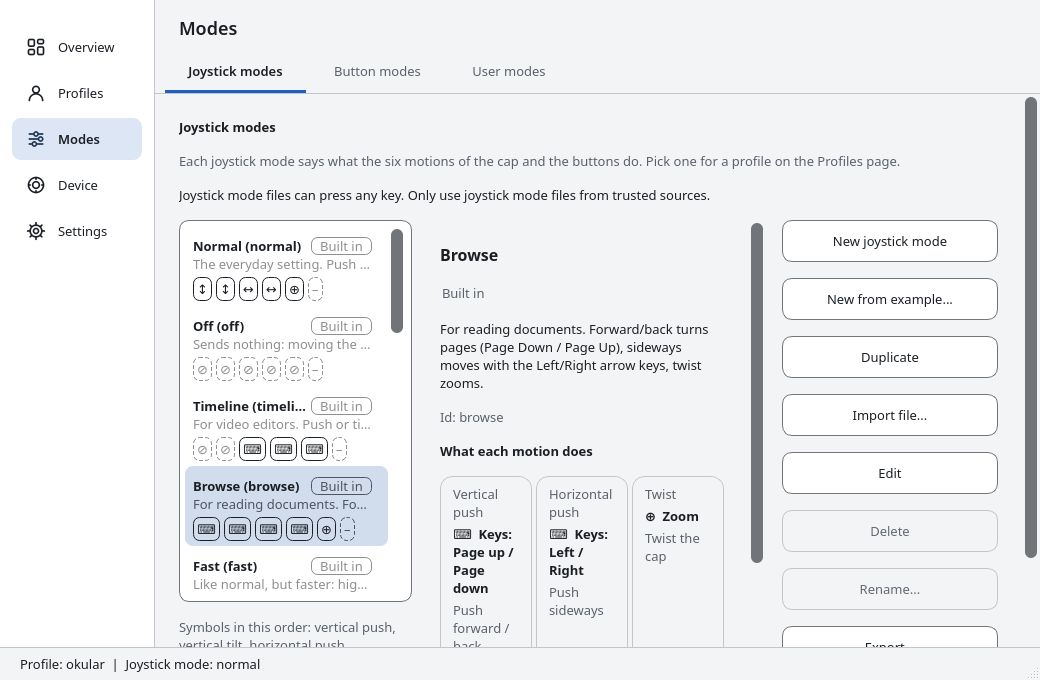
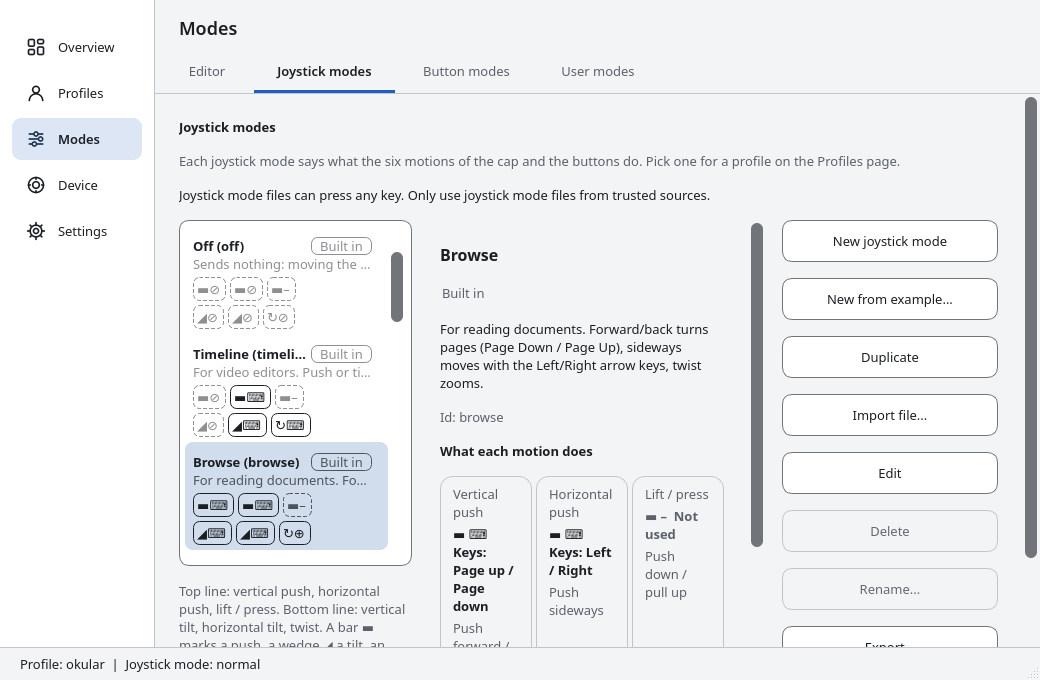
Installers: no daemon-only fallback, every Windows and macOS package has the interface and the daemon
- installers.yml: the Qt step no longer continues on error, the UI build is always on,
  the image and installer tests require the app / dofscroll-ui.exe.
- build-dmg.sh, build-installer.ps1, installer.nsi: refuse to build without the interface.
- ci.yml release job: publishes only when all six files exist and none is daemon-only.
- Joystick modes list: the six chips sit in two lines of three (pushes above, tilts and
  twist below), each with the marker of the kind of motion and the symbol of the action
  (the marker came first and hid the action symbol in the list).
- New website screenshots (Qt 6.9.3, offscreen), docs and German strings.

diff --git a/src/ui/qt/pages/modes_page.cpp b/src/ui/qt/pages/modes_page.cpp
@@ -56,6 +56,9 @@ QString originText(Origin o) {
 
 // Item roles of a row of the list (kRoleDescription and kRoleOrigin come from described_item_delegate.hpp).
 enum { kRoleChips = Qt::UserRole + 3, kRoleMuted = Qt::UserRole + 4 };
+// The list shows the six motions as two lines of three, like the panel in the detail view: the pushes (vertical,
+// horizontal, lift / press) above, the tilts and the twist below. The data order is the fixed order of the model.
+constexpr int kChipsPerRow = 3;
 
 // One row of the list: the name (bold) with the origin badge at the right end, one short description line (muted,
 // cut to the width) and the six motion chips below, wrapped to the width of the list. All lengths follow the font
@@ -70,7 +73,7 @@ public:
         initStyleOption(&opt, index);
         const QFontMetrics fm(opt.font);
         const int pad = spn::ui::tokens::kSpaceSm;
-        const motionview::ChipLayout chips = motionview::layoutChips(fm, chipsOf(index), textWidth(opt), compactPad(fm));
+        const motionview::ChipLayout chips = motionview::layoutChips(fm, chipsOf(index), textWidth(opt), compactPad(fm), kChipsPerRow);
         int h = fm.height() + 2 * pad;
         if (!index.data(kRoleDescription).toString().isEmpty()) h += fm.height();
         h += chips.height + (chips.height ? motionview::chipGap(fm) : 0);
@@ -124,8 +127,8 @@ public:
         }
         y += motionview::chipGap(fm);
         const QList<motionview::Chip> chips = chipsOf(index);
-        motionview::paintChips(painter, fm, chips, motionview::layoutChips(fm, chips, width, compactPad(fm)), QPoint(textRect.left(), y), nameColor,
-                               mutedColor, compactPad(fm));
+        motionview::paintChips(painter, fm, chips, motionview::layoutChips(fm, chips, width, compactPad(fm), kChipsPerRow), QPoint(textRect.left(), y),
+                               nameColor, mutedColor, compactPad(fm));
         painter->restore();
     }
 
@@ -137,12 +140,15 @@ private:
         QList<motionview::Chip> out;
         const QStringList texts = index.data(kRoleChips).toStringList();
         const QString mask = index.data(kRoleMuted).toString();
-        for (int i = 0; i < texts.size(); ++i) {
+        static const int order[6] = {0, 2, 4, 1, 3, 5};  // v_push h_push lift / v_tilt h_tilt twist
+        for (int k = 0; k < texts.size(); ++k) {
+            const int i = texts.size() == 6 ? order[k] : k;
             motionview::Chip c;
-            // the list shows the symbol only (the words are in the detail view and the tooltip, the position
-            // says which motion it is); a word would be cut off in a narrow row
-            const int space = texts[i].indexOf(QLatin1Char(' '));
-            c.text = space > 0 ? texts[i].left(space) : texts[i];
+            // the list shows the two symbols only, the marker of the kind of motion (push, tilt, twist) and the
+            // symbol of the action (the words are in the detail view and the tooltip, the position says which
+            // motion it is); a word would be cut off in a narrow row
+            const QStringList parts = texts[i].split(QLatin1Char(' '));
+            c.text = parts.size() >= 2 ? parts[0] + parts[1] : texts[i];
             c.muted = i < mask.size() && mask[i] == QLatin1Char('1');
             out.append(c);
         }
@@ -192,10 +198,10 @@ ModesPage::ModesPage(const UiContext &ctx, QWidget *parent)
     list_->setResizeMode(QListView::Adjust);
     list_->setHorizontalScrollBarPolicy(Qt::ScrollBarAlwaysOff);
     // no minimum width: it grows with the font (the page would not fit the default window with the wider Windows
-    // fonts); the splitter starts the list wide enough for the six symbol chips in one row, a narrower list wraps them
+    // fonts); the six symbol chips sit in two lines of three (pushes above, tilts and twist below)
     leftLayout->addWidget(list_, 1);
-    auto *legend = new QLabel(T("Symbols in this order: vertical push, vertical tilt, horizontal push, horizontal tilt, twist, "
-                                "lift / press. \u2195 scroll, \u2194 scroll sideways, \u2295 zoom, \u2328 keys, \u21E5 one tap per "
+    auto *legend = new QLabel(T("Top line: vertical push, horizontal push, lift / press. Bottom line: vertical tilt, horizontal tilt, "
+                                "twist. A bar \u25AC marks a push, a wedge \u25E2 a tilt, an arrow \u21BB the twist. \u2195 scroll, \u2194 scroll sideways, \u2295 zoom, \u2328 keys, \u21E5 one tap per "
                                 "push, \u2298 off, \u2013 not used (dashed)."), left);
     legend->setWordWrap(true);
     legend->setTextFormat(Qt::PlainText);

diff --git a/src/ui/qt/motion_view.hpp b/src/ui/qt/motion_view.hpp
@@ -53,19 +53,23 @@ inline int chipPadX(const QFontMetrics &fm) { return fm.height() / 2; }
 inline int chipHeight(const QFontMetrics &fm) { return fm.height() + 2 * std::max(2, fm.height() / 6); }
 
 // Flows the chips left to right and wraps to the next row at `width`; a chip never gets wider than `width`.
-// padX < 0: the normal inset; a smaller one (a symbol-only chip in a list row) keeps six chips in one row.
-inline ChipLayout layoutChips(const QFontMetrics &fm, const QList<Chip> &chips, int width, int padX = -1) {
+// padX < 0: the normal inset; a smaller one (a symbol-only chip in a list row) keeps the chips narrow.
+// perRow > 0: a fixed number of chips per line (the list rows show the pushes above the tilts), else the line
+// breaks where the width ends. The text gets 2 px of slack: a symbol font may measure a little differently
+// when drawn, and an elided symbol ("...") is worse than a chip that is 2 px wider.
+inline ChipLayout layoutChips(const QFontMetrics &fm, const QList<Chip> &chips, int width, int padX = -1, int perRow = 0) {
     const int px = padX >= 0 ? padX : chipPadX(fm), gap = chipGap(fm), ch = chipHeight(fm);
     ChipLayout l;
-    int x = 0, y = 0;
+    int x = 0, y = 0, n = 0;
     for (const Chip &c : chips) {
-        const int cw = std::min(std::max(width, 1), fm.horizontalAdvance(c.text) + 2 * px);
-        if (x > 0 && x + cw > width) {
+        const int cw = std::min(std::max(width, 1), fm.horizontalAdvance(c.text) + 2 * px + 2);
+        if (x > 0 && (perRow > 0 ? n % perRow == 0 : x + cw > width)) {
             x = 0;
             y += ch + gap;
         }
         l.rects.append(QRect(x, y, cw, ch));
         x += cw + gap;
+        ++n;
     }
     l.height = chips.isEmpty() ? 0 : y + ch;
     return l;

diff --git a/docs/release-process.md b/docs/release-process.md
@@ -35,10 +35,11 @@ Test a change to the installers with `gh workflow run installers-dry-run.yml --r
 workflow file must exist on the default branch for `gh workflow run`; before that the pull request
 run does the same).
 
-If Qt cannot be installed in a job (the `install-qt-action` step is `continue-on-error`), that job
-builds the daemon without the UI and warns; the file names then contain `-daemon-only`
-(`dofscroll-<v>-windows-x64-daemon-only-setup.exe`, `...-daemon-only-portable.zip`,
-`dofscroll-<v>-macos-arm64-daemon-only.dmg`). The Qt version is the one of `packaging/qt.env` (the same on
+There is no daemon-only fallback: every Windows and macOS package contains the interface and the daemon. If Qt
+cannot be installed the job fails, `build-dmg.sh` and `build-installer.ps1` refuse to build without
+`dofscroll-ui`, the image and installer tests require it, and the `release` job publishes nothing unless all six
+files (RPM, DEB, TGZ, Windows setup and ZIP, macOS DMG) exist and none has `daemon-only` in its name. (Version 1.2.0
+shipped a macOS image without the interface because that step used to be allowed to fail.) The Qt version is the one of `packaging/qt.env` (the same on
 Windows, macOS and Linux; Windows kit `win64_msvc2022_64`), installed with a pinned `aqtinstall` instead of `install-qt-action` (that action uses an unpinned `setup-python`, which the repository action policy rejects); all actions are pinned to commit SHAs.
 
 Both jobs test their package before uploading: the Windows job installs silently with autostart
@@ -69,8 +70,8 @@ No release step depends on a package feed being up at that moment:
   (repository variable `NSIS_MIRROR_URL`, same file) tried first, and `actions/cache` for the zip.
   `installers-dry-run.yml` calls the same reusable workflow, so a broken source shows up before a
   tag. To bump NSIS, change version and SHA-256 in the script and the cache key in `installers.yml`.
-- **aqtinstall and Qt** (pip, `aqt`) are retried 3 times; a failure still falls back to the
-  daemon-only package.
+- **aqtinstall and Qt** (pip, `aqt`) are retried 3 times; a failure fails the job (no daemon-only
+  fallback).
 - Audit, not yet hardened: the Linux package jobs (`linux-packages.yml`: `dnf`/`apt` inside
   containers) and `ci.yml` (`dnf`) rely on distribution mirrors, which retry internally; the macOS
   job uses only aqtinstall (retried) and the runner's tools.

diff --git a/docs/ui.md b/docs/ui.md
@@ -62,7 +62,7 @@ SpaceMouse cap always appear in the same order with the same symbol and the same
 page that shows what a joystick mode or a profile does: vertical push (axis z, symbol shows the action),
 vertical tilt (rx), horizontal push (x), horizontal tilt (rz), lift / press (y, normally "Not used") and
 twist (ry). In the 3x2 panel the top row holds only pushes (vertical, horizontal, lift / press) and the bottom
-row only the tilts and the twist. A chip starts with a marker for the kind of motion (a flat bar for a push, a
+row only the tilts and the twist; the Joystick modes list shows the six symbols the same way, two lines of three. A chip starts with a marker for the kind of motion (a flat bar for a push, a
 wedge for a tilt, a turn arrow for the twist), then the symbol of the action and the word; a Keys or Tap action
 shows its keys instead of the word ("Left / Right", "Ctrl+Page up / Ctrl+Page down") and the Zoom action says
 "Ctrl+Wheel" (the keys of `ZOOM_MODIFIER`, read from the profile, and the mouse wheel), so a zoom by keys such as Ctrl+Plus / Ctrl+Minus is not

diff --git a/docs/wiki/Requirements.md b/docs/wiki/Requirements.md
@@ -129,7 +129,7 @@ The official 3Dconnexion driver can stay installed and running for your CAD prog
 
 - The tray icon is a standard Windows notification-area icon; Windows may hide it in the overflow area (the `^` arrow) until you drag it out. Unverified on hardware.
 - Without a tray the window opens minimized and closing it quits `dofscroll-ui.exe`.
-- The installer includes the Qt libraries; nothing else to install. If Qt was missing when the package was built, the file name contains `-daemon-only` and there is no settings window.
+- The installer includes the Qt libraries; nothing else to install. Every Windows and macOS package contains the settings window and the daemon; a build without Qt fails instead of producing a package without it.
 - The daemon `dofscroll.exe` has no window. Autostart is the optional installer component "Start the daemon at logon" (off by default) or the "Start at login" switch in the interface.
 
 ### Before you start (Windows)

diff --git a/docs/devices.md b/docs/devices.md
@@ -89,7 +89,7 @@ Where it is:
 | Linux | `dofscroll-hidprobe` in `bin` of the package (`/usr/bin`) |
 | Windows installer | `dofscroll-hidprobe.exe` in the install folder (default `%LOCALAPPDATA%\Programs\dofscroll`), next to `dofscroll.exe` |
 | Windows ZIP | `dofscroll-hidprobe.exe` in the unpacked folder, next to `dofscroll.exe` |
-| macOS image | `dofscroll.app/Contents/Resources/daemon/dofscroll-hidprobe` (the daemon-only image: `dofscroll/dofscroll-hidprobe`) |
+| macOS image | `dofscroll.app/Contents/Resources/daemon/dofscroll-hidprobe` |
 
 It is a command line program: open a terminal (PowerShell or cmd on Windows, Terminal on macOS) and
 run it by its full path, or from its folder. It finds the `devices` folder next to itself. On

diff --git a/docs/installation.md b/docs/installation.md
@@ -39,8 +39,8 @@ version `1.2.1`. Replace the version with the one you download.
 | `dofscroll-1.2.1-macos-arm64.dmg` | macOS disk image for Apple silicon (ad-hoc signed, not notarized), see section 5. |
 | `SHA256SUMS.txt` | SHA-256 checksums of all other assets. |
 
-If Qt was not available when a Windows or macOS package was built, its name contains
-`-daemon-only` and it has no settings window.
+Every Windows and macOS package contains the settings window and the daemon. (The macOS image of
+1.2.0 was an exception, named `-daemon-only`; 1.2.1 fixed that, and a build without Qt now fails.)
 
 ### Verify the download
 
